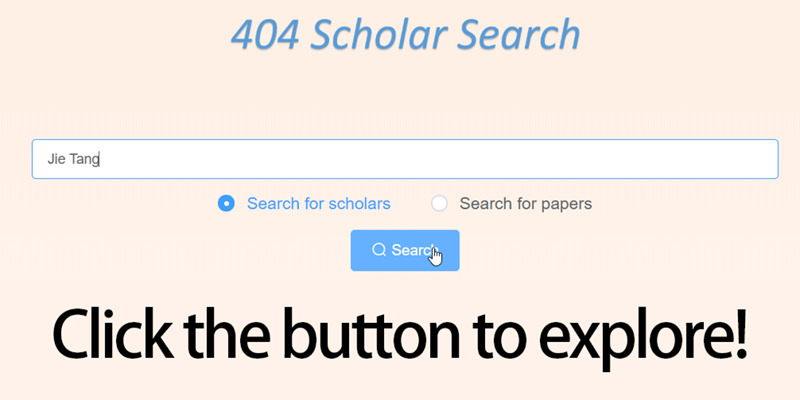
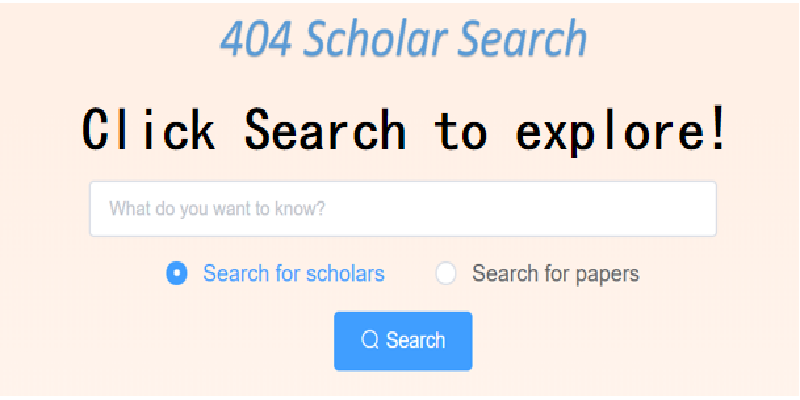
fix bug; modify tutorial pic

diff --git a/search/src/components/Result.vue b/search/src/components/Result.vue
@@ -179,7 +179,7 @@
       },
       select_field: function () {
         // console.log(this.selected_field);
-        if (this.select_field === '')
+        if (this.selected_field === '')
           return ;
         axiosInstance({ url: '/backend_search?keyword=' + this.query+ '&keytype=author_adv&fields='+this.selected_field })
           .then(response => {
